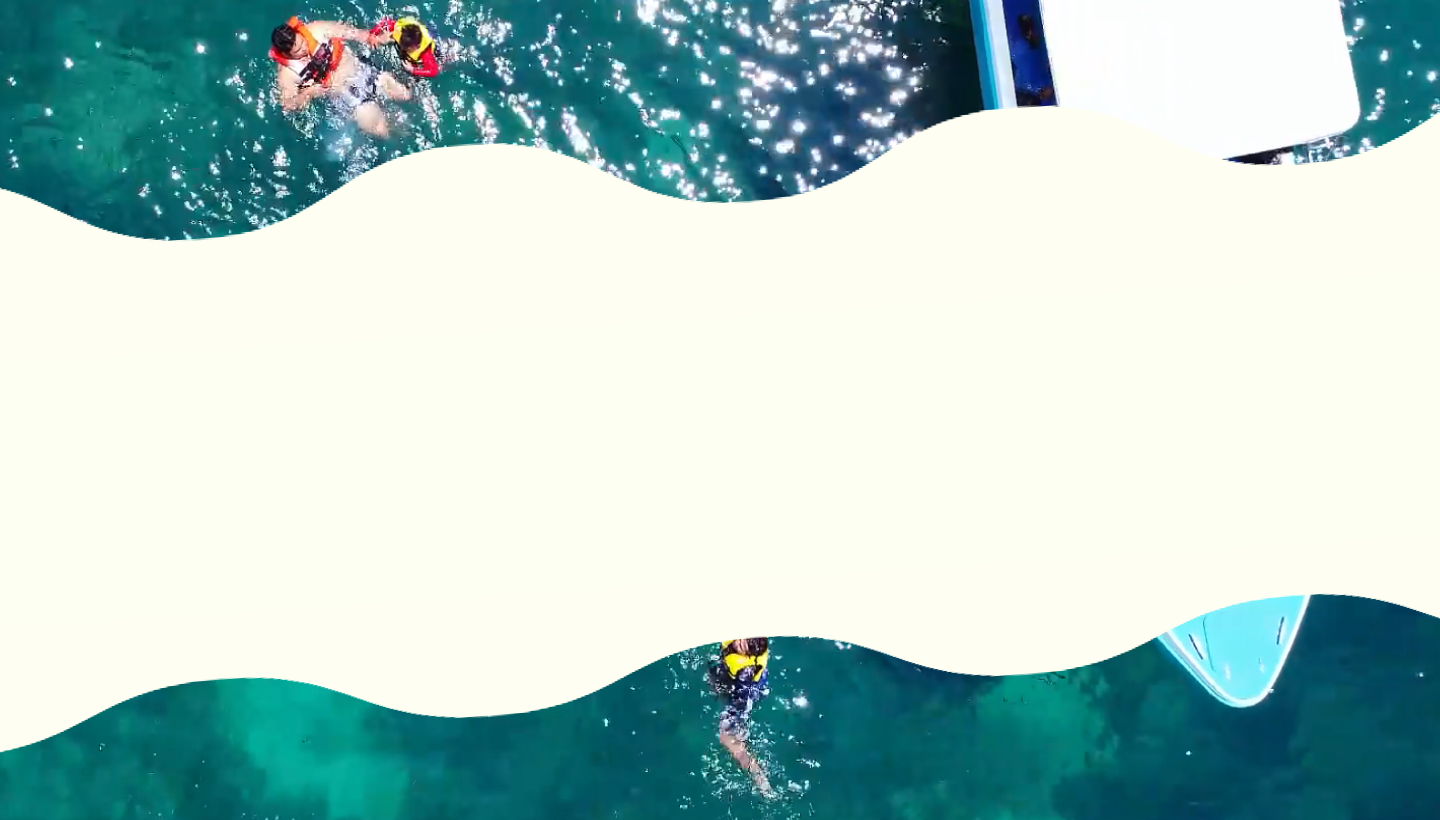
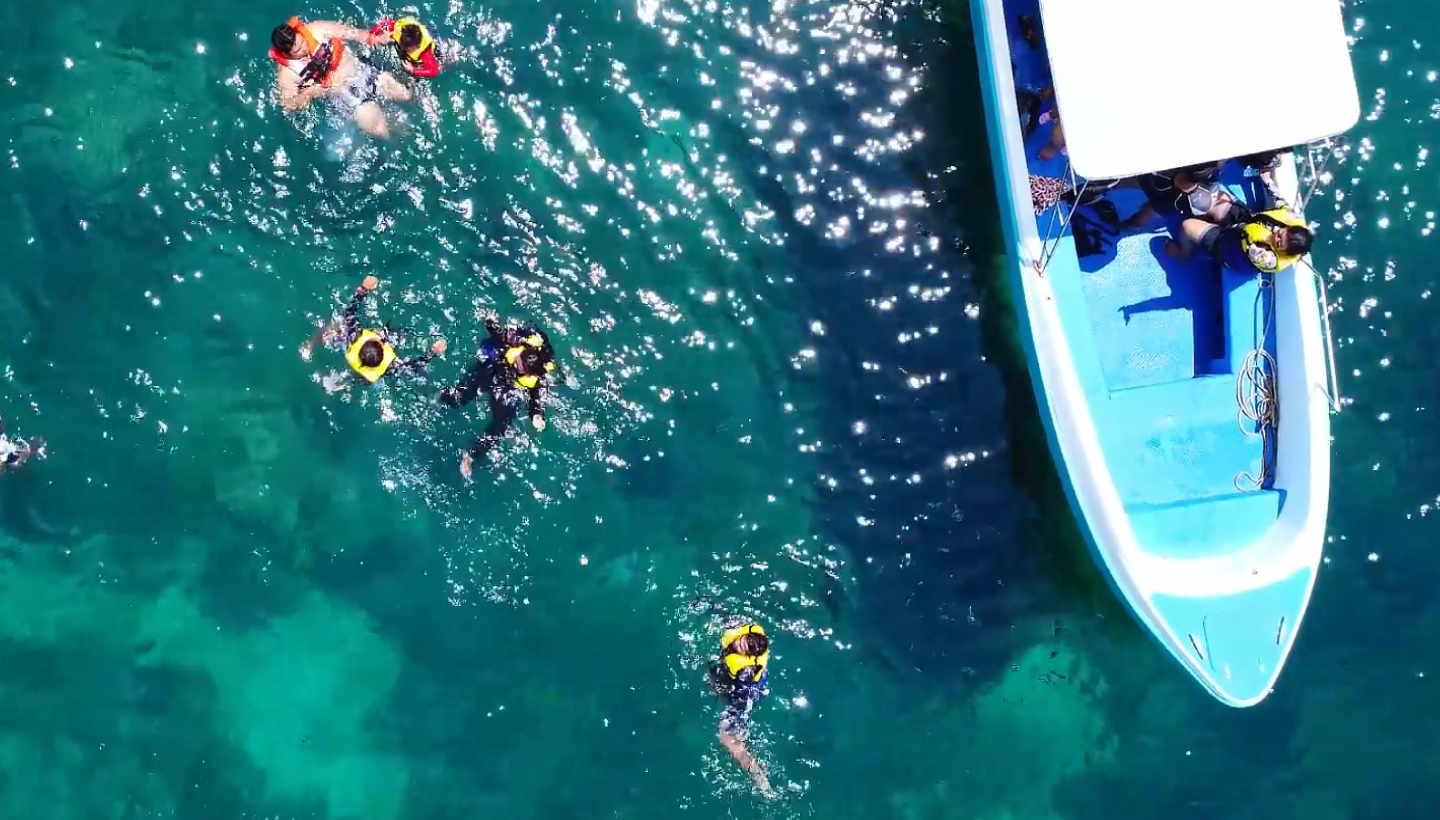
Added wave, index, leading, barrel

diff --git a/src/app/about-us/page.tsx b/src/app/about-us/page.tsx
@@ -1,10 +1,13 @@
 import React from "react";
-import FAQSection from "@/components/AboutUs/FAQSection";
-import Map from "@/components/AboutUs/Map";
-import StoryPhotoGrid from "@/components/AboutUs/StoryPhotoGrid";
+import Image from "next/image";
+
+import { FAQSection } from "@/components/AboutUs";
+import { Map } from "@/components/AboutUs";
+import { StoryPhotoGrid } from "@/components/AboutUs";
 
 import abtCover from "/public/images/about/AboutCover.png";
 import abtUsBG from "/public/images/about/AboutUs_BG.png";
+import Wave from "@/components/AboutUs/Wave";
 
 const AboutUs = () => {
   return (
@@ -15,22 +18,14 @@ const AboutUs = () => {
       ></div>
 
       <section
-        className="flex items-center justify-center bg-cover bg-center"
+        className="relative flex items-center justify-center bg-cover bg-center"
         style={{
           backgroundImage: `url(${abtUsBG.src})`,
           backgroundSize: "cover",
           minHeight: "100vh",
         }}
       >
-        <div className="mx-auto max-w-screen-2xl text-center">
-          <h1 className="font-ephesis text-[70px] text-[#7A4424]">About Us</h1>
-          <p className="mb-4 px-60 py-6 text-[35px] text-[#77442B] dongle-h3-light">
-            Lorem ipsum dolor sit amet. Qui doloribus corrupti aut quia veniam
-            sed internos soluta. Aut impedit ipsam qui voluptatem magni et sunt
-            aperiam aut dicta distinctio ut iusto nemo sed aspernatur velit. Ab
-            fugiat optio quos...
-          </p>
-        </div>
+        <Wave />
       </section>
 
       <section className="bg-cream flex items-center justify-center">
@@ -39,13 +34,13 @@ const AboutUs = () => {
             <h1 className="text-center font-ephesis text-[70px] text-[#77442B]">
               The Pamana Story
             </h1>
-            <p className="p-6 text-center text-[35px] text-[#77442B] dongle-h3-light">
+            <p className="p-6 text-center text-[35px] leading-tight text-[#77442B] dongle-h3-light">
               Lorem ipsum dolor sit amet. Qui doloribus corrupti aut quia veniam
               sed internos soluta. Aut impedit ipsam qui voluptatem magni et
               sunt aperiam aut dicta distinctio ut iusto nemo sed aspernatur
               velit. Ab fugiat optio quos...
             </p>
-            <p className="p-6 text-center text-[35px] text-[#77442B] dongle-h3-light">
+            <p className="p-6 text-center text-[35px] leading-tight text-[#77442B] dongle-h3-light">
               Lorem ipsum dolor sit amet. Qui doloribus corrupti aut quia veniam
               sed internos soluta. Aut impedit ipsam qui voluptatem magni et
               sunt aperiam aut dicta distinctio ut iusto nemo sed aspernatur

diff --git a/src/components/AboutUs/FAQCards.tsx b/src/components/AboutUs/FAQCards.tsx
@@ -16,13 +16,11 @@ const FAQCards: React.FC<FAQCardProps> = ({ question, answer }) => {
           <div className="absolute -top-8 left-1/2 flex h-20 w-20 -translate-x-1/2 transform items-center justify-center rounded-full bg-[#8DBC83] text-[70px] font-extrabold text-white">
             <span>?</span>
           </div>
-          <div className="mt-6">
-            <h3 className="mb-2 mt-4 text-[40px] font-bold text-[#7A4424]">
+          <div className="mt-8">
+            <h3 className="mb-2 mt-4 text-[45px] font-bold leading-none text-[#7A4424]">
               {question}
             </h3>
-            <p className="text-[30px] leading-normal text-[#77442B]">
-              {answer}
-            </p>
+            <p className="text-[30px] leading-tight text-[#77442B]">{answer}</p>
           </div>
         </div>
       </div>

diff --git a/src/components/AboutUs/Wave.tsx b/src/components/AboutUs/Wave.tsx
@@ -1,0 +1,24 @@
+import React from "react";
+
+const Wave = () => {
+  return (
+    <div
+      className="absolute inset-0 flex items-center justify-center bg-cover bg-center"
+      style={{
+        backgroundImage: `url('/images/about/wave.png')`,
+      }}
+    >
+      <div className="text-center">
+        <h1 className="font-ephesis text-[70px] text-[#7A4424]">About Us</h1>
+        <p className="mb-4 px-60 py-6 text-[35px] text-[#77442B] dongle-h3-light">
+          Lorem ipsum dolor sit amet. Qui doloribus corrupti aut quia veniam sed
+          internos soluta. Aut impedit ipsam qui voluptatem magni et sunt
+          aperiam aut dicta distinctio ut iusto nemo sed aspernatur velit. Ab
+          fugiat optio quos...
+        </p>
+      </div>
+    </div>
+  );
+};
+
+export default Wave;

diff --git a/src/components/AboutUs/index.ts b/src/components/AboutUs/index.ts
@@ -1,0 +1,6 @@
+import FAQCards from "./FAQCards";
+import FAQSection from "./FAQSection";
+import Map from "./Map";
+import StoryPhotoGrid from "./StoryPhotoGrid";
+
+export {FAQCards, FAQSection, Map, StoryPhotoGrid}
